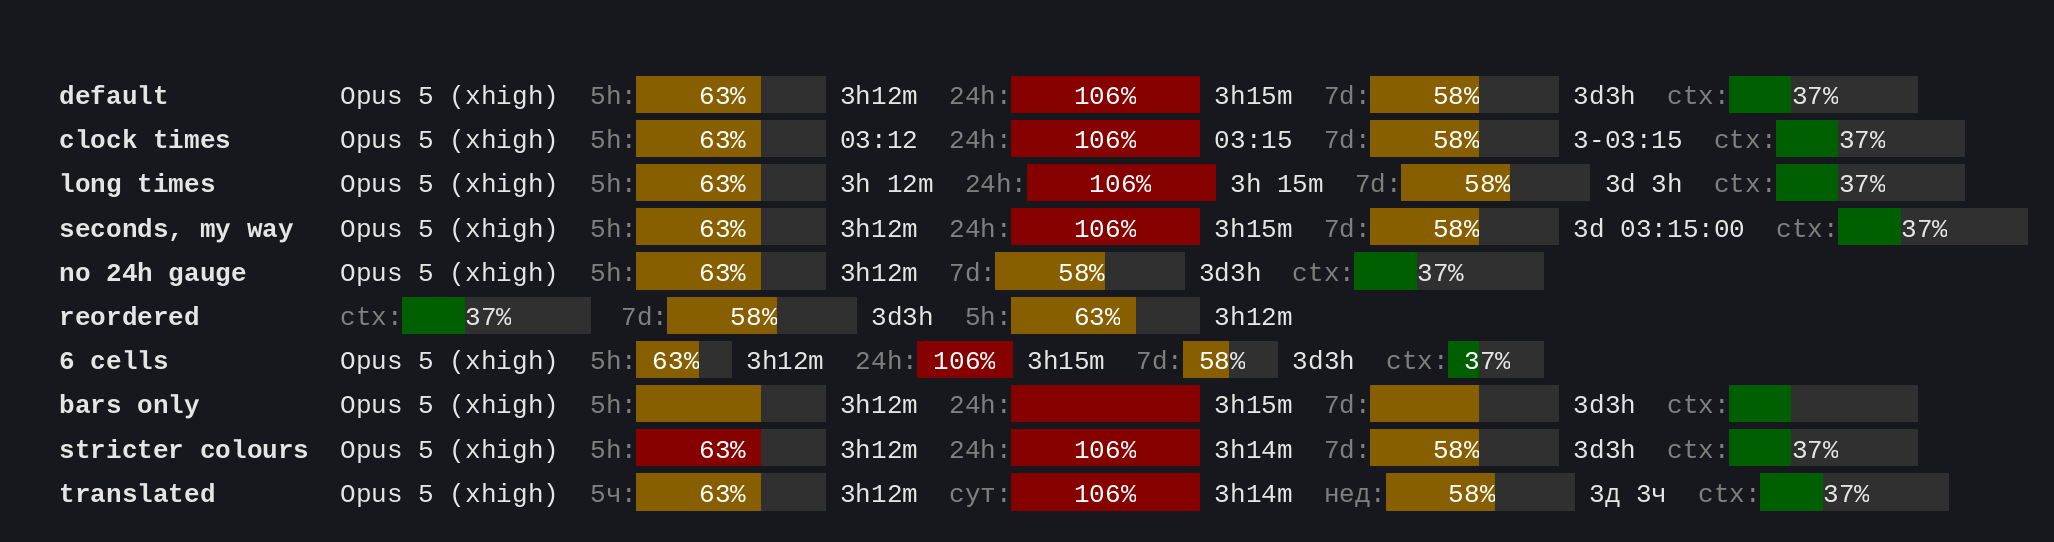
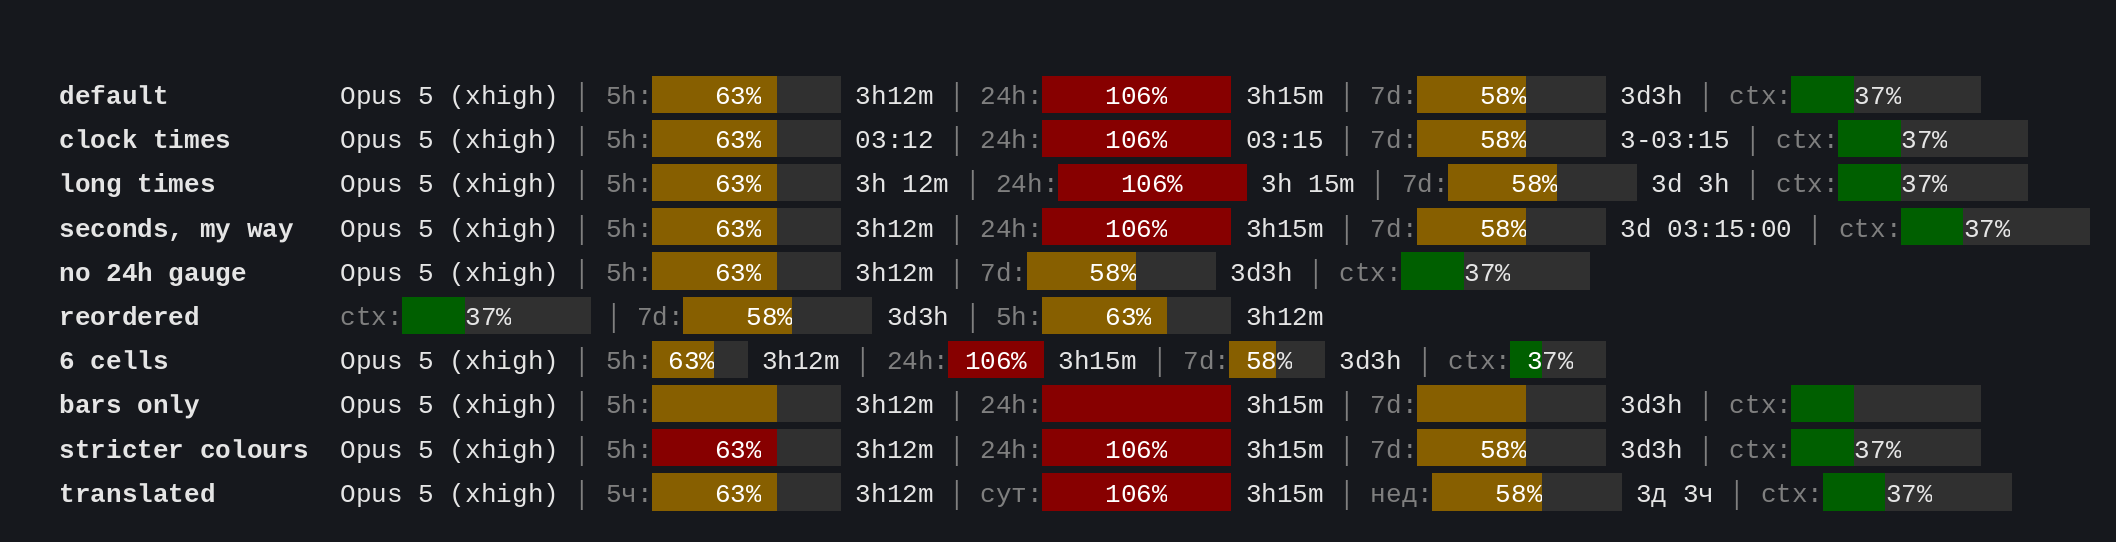
add PB_SEP_CHAR: a vertical bar between sections by default

diff --git a/CHANGELOG.md b/CHANGELOG.md
@@ -14,8 +14,9 @@ First public release.
   which can read above 100% (borrowing from tomorrow) or below zero (yesterday
   left a surplus).
 - Configuration through `~/.claude/pacebar.conf`: sections on/off and in any
-  order, per-gauge label, width, percentage style and colour thresholds, the
-  palette, and templated time formats with `compact`, `clock` and `long` presets.
+  order, the divider between them, per-gauge label, width, percentage style and
+  colour thresholds, the palette, and templated time formats with `compact`,
+  `clock` and `long` presets.
 - Mobile preset: any `PB_M_*` name replaces its `PB_*` twin below
   `PB_WIDE_MIN` columns.
 - `preview.sh` for rendering made-up states, and `demo/render.py` to turn that

diff --git a/README.md b/README.md
@@ -56,7 +56,8 @@ a handful of different settings — `./preview.sh --configs`:
 |---|---|---|
 | `PB_WIDE_MIN` | `125` | columns; below this the mobile preset applies |
 | `PB_ORDER` | `model 5h 24h 7d ctx` | sections to print, in order |
-| `PB_SEP` | `2` | spaces between sections |
+| `PB_SEP` | `1` | spaces on each side of the divider |
+| `PB_SEP_CHAR` | `│` | divider between sections; empty for spaces only |
 | `PB_MODEL` `PB_5H` `PB_24H` `PB_7D` `PB_CTX` | `on` | each section on or off |
 
 **Model**
